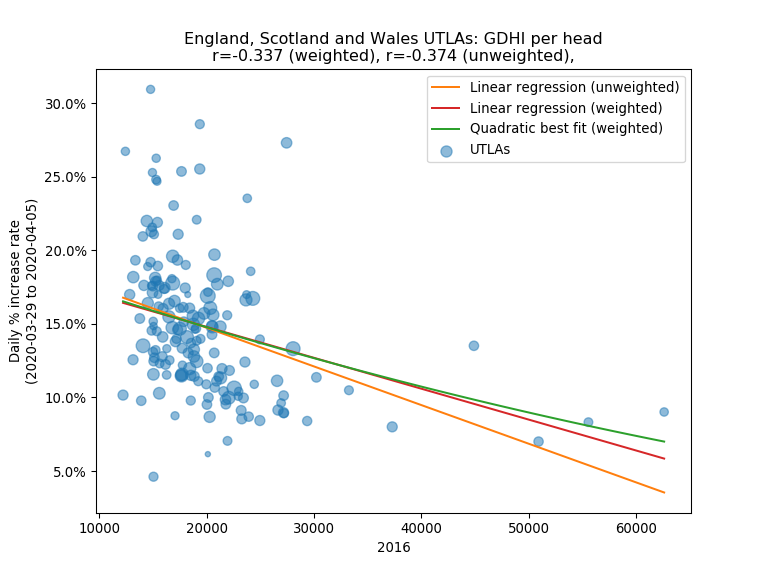
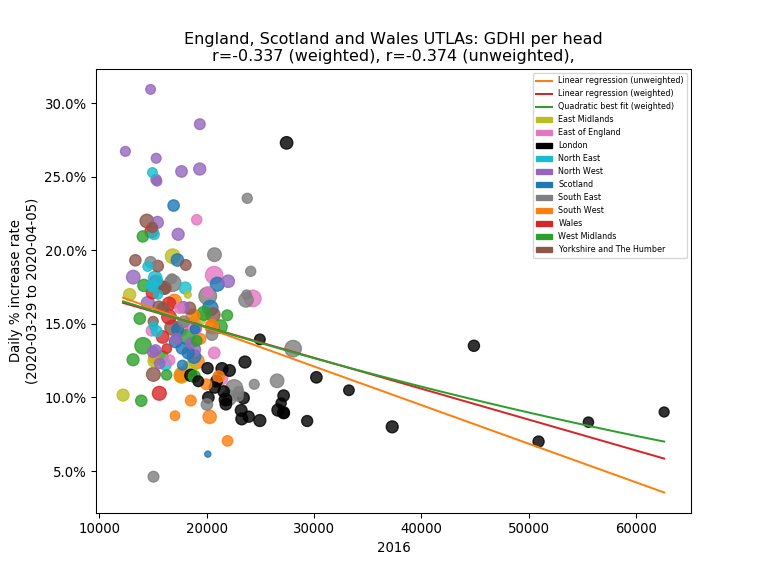
Make income plot region coloured.

diff --git a/uk/plot-income.py b/uk/plot-income.py
@@ -111,14 +111,19 @@ def probe(filename,column,what,lowerTierPopulation):
     print '  Lowest'
     for k in sorted(rate.keys(),key=lambda k: income[k],reverse=False)[:10]:
         print '    {:32s}: {:.2f}'.format(codes[k],income[k])
+
+    interesting=sorted(rate.keys(),key=lambda k: population[k],reverse=True)
     
-    y=np.array([100.0*rate[k] for k in rate.keys()])
-    x=np.array([income[k] for k in rate.keys()])
-    w=np.array([population[k] for k in rate.keys()])
-    s=np.sqrt(w/100.0)
+    y=np.array([100.0*rate[k] for k in interesting])
+    x=np.array([income[k] for k in interesting])
+
+    c=[UKCovid19Data.colorsByRegion[UKCovid19Data.whichRegion(k)] for k in interesting]
+
+    w=np.array([population[k] for k in interesting])
+    s=np.sqrt(w/50.0)
     
     fig=plt.figure(figsize=(8,6))
-    plt.scatter(x,y,color='tab:blue',alpha=0.5,label='UTLAs',s=s)
+    plt.scatter(x,y,color=c,alpha=0.8,s=s)
     r=scipy.stats.linregress(x,y)
     gradient,intercept,r_value,p_value,std_err=r
     
@@ -144,7 +149,10 @@ def probe(filename,column,what,lowerTierPopulation):
 
     # plt.xscale('symlog') # Meh.
 
-    plt.legend(loc='upper right')
+    regionsUsed=sorted(list(set([UKCovid19Data.whichRegion(k) for k in interesting])))
+    handles,labels = ax.get_legend_handles_labels()
+    handles.extend([matplotlib.patches.Patch(color=UKCovid19Data.colorsByRegion[k],label=k) for k in regionsUsed])
+    plt.legend(handles=handles,loc='upper right',prop={'size':6})
 
     plt.title('England, Scotland and Wales UTLAs: {}\nr={:.3f} (weighted), r={:.3f} (unweighted),'.format(filename,rw,r_value))
 
